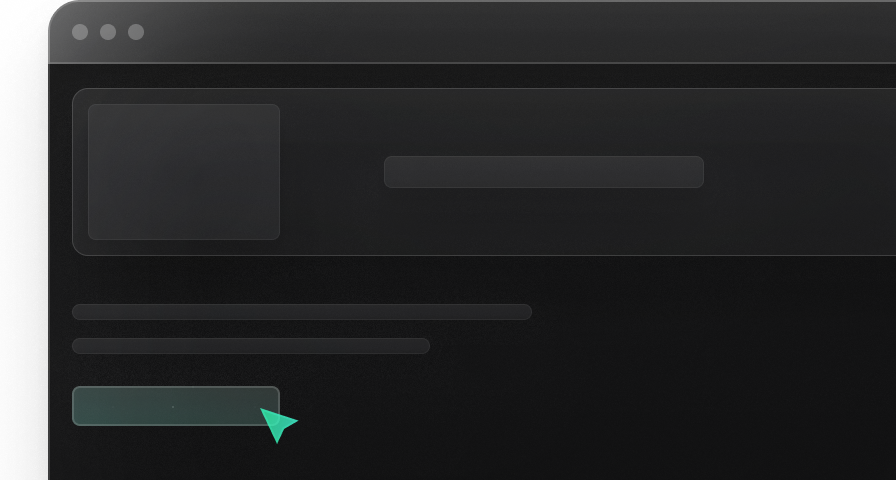
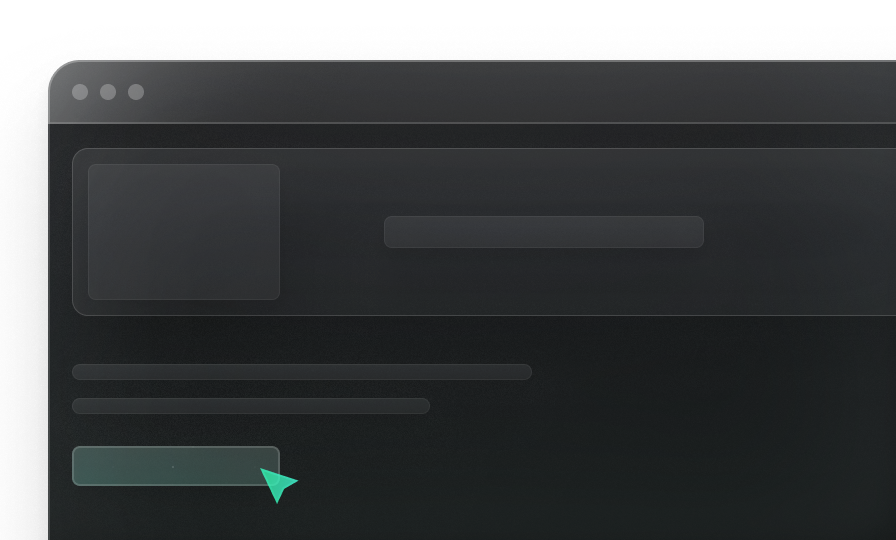
navbar blur problem fixed

diff --git a/components/navbar.jsx b/components/navbar.jsx
@@ -8,19 +8,28 @@ import { FaArrowRight } from "react-icons/fa6";
 import { useState, useEffect } from "react";
 import { motion, AnimatePresence } from "framer-motion";
 import Link from "next/link";
+
 function Navbar() {
   const [active, setActive] = useState(false);
   const [showNav, setShowNav] = useState(true);
   const [lastScroll, setLastScroll] = useState(0);
+  const [scrolled, setScrolled] = useState(false);
 
   const handleClick = () => {
     setActive(!active);
   };
 
-  // Detect scroll direction
+  // Detect scroll direction + blur toggle
   useEffect(() => {
     const handleScroll = () => {
       const currentScroll = window.scrollY;
+
+      // toggle blur after 50px scroll
+      if (currentScroll > 50) {
+        setScrolled(true);
+      } else {
+        setScrolled(false);
+      }
 
       if (currentScroll > lastScroll && currentScroll > 100) {
         // scrolling down → hide navbar
@@ -82,7 +91,7 @@ function Navbar() {
       <AnimatePresence>
         {showNav && (
           <motion.div
-            className={style.Navbar}
+            className={`${style.Navbar} ${scrolled ? style.scrolled : ""}`}
             variants={navVariants}
             key="navbar"
             initial="hidden"

diff --git a/css/navbar.module.css b/css/navbar.module.css
@@ -8,11 +8,13 @@
   justify-content: space-between;
   align-items: center;
   padding: 1.5rem 2rem;
-  background-color: rgba(0, 0, 0, 0.25);
-backdrop-filter: blur(120px); /* ✅ background blur only */
+  
+}
+.Navbar.scrolled {
+ background-color: rgba(0, 0, 0, 0.25) !important;
+backdrop-filter: blur(120px) !important; /* ✅ background blur only */
   -webkit-backdrop-filter: blur(12px);
 }
-
 .navicon {
   width: 1.5rem;
   height: 1.5rem;
@@ -126,5 +128,6 @@ background: linear-gradient(180deg, rgba(255, 255, 255, 0.03) 0%, rgba(255, 255,
     padding: 1.75rem 7.5rem;
     backdrop-filter: none;
     box-shadow: none;
+    background: none;
   }
 }

diff --git a/css/ServiceCard.module.css b/css/ServiceCard.module.css
@@ -80,10 +80,10 @@ backdrop-filter: blur(10px);
 }
 .potrait img {
 
-  border-radius: 2rem;
+  /* border-radius: 2rem; */
   width: 100%;          /* keep image responsive */
   height: auto;
-  object-fit: contain; 
+  object-fit: cover; 
     
 }
 
